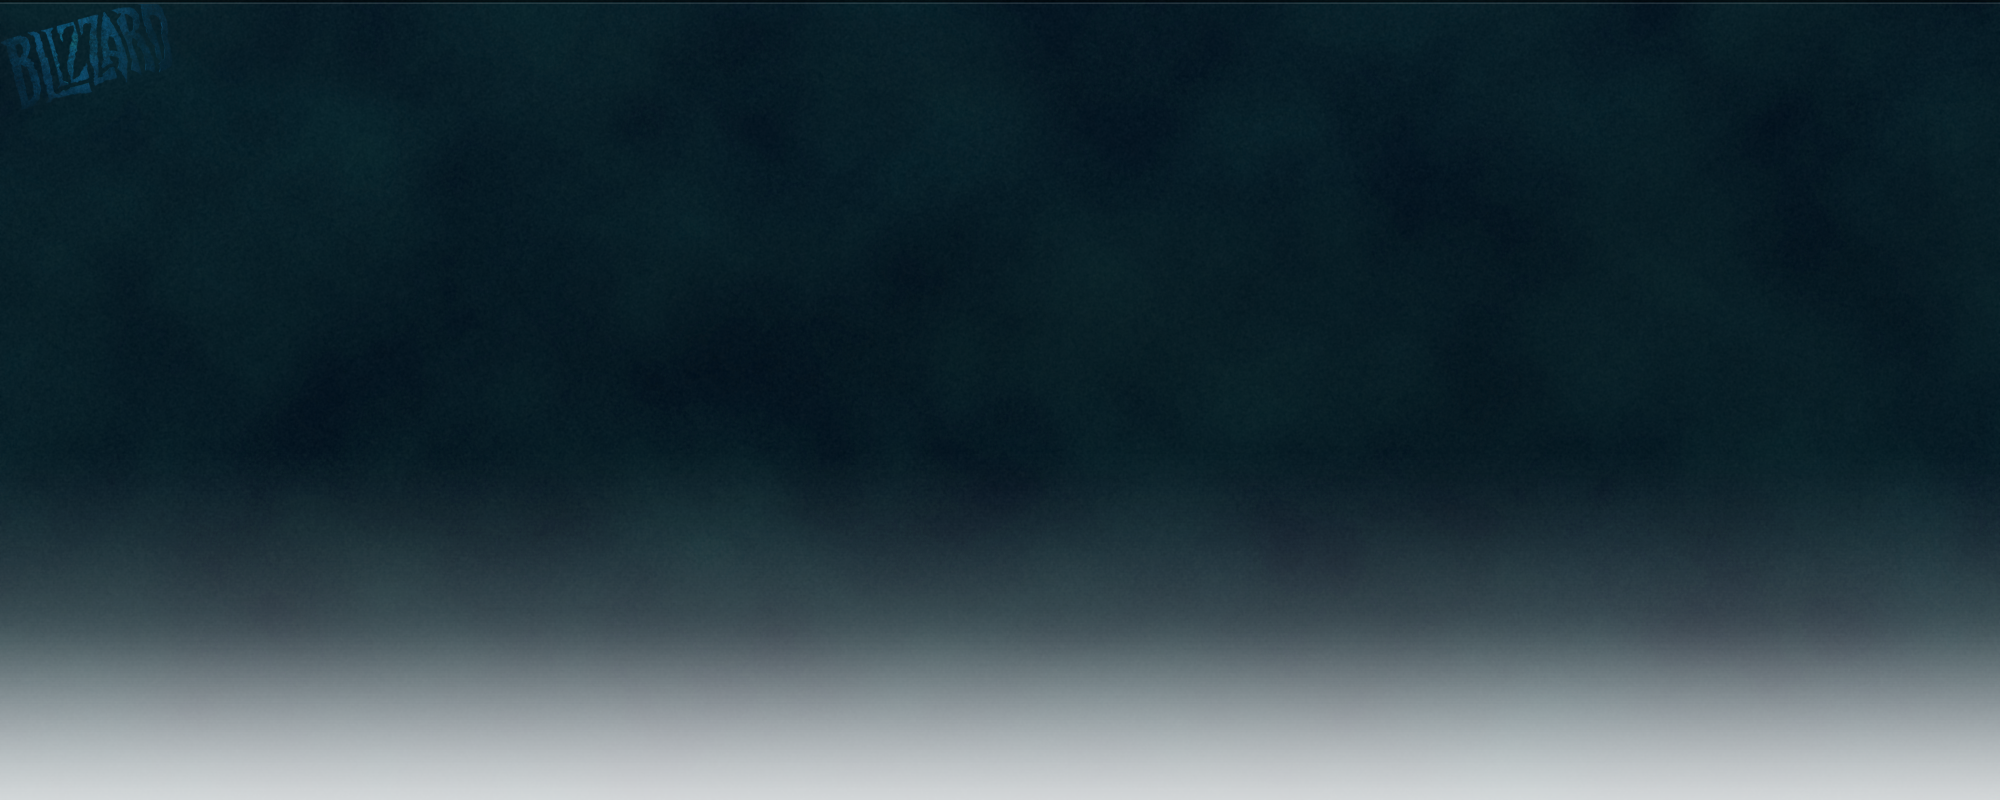
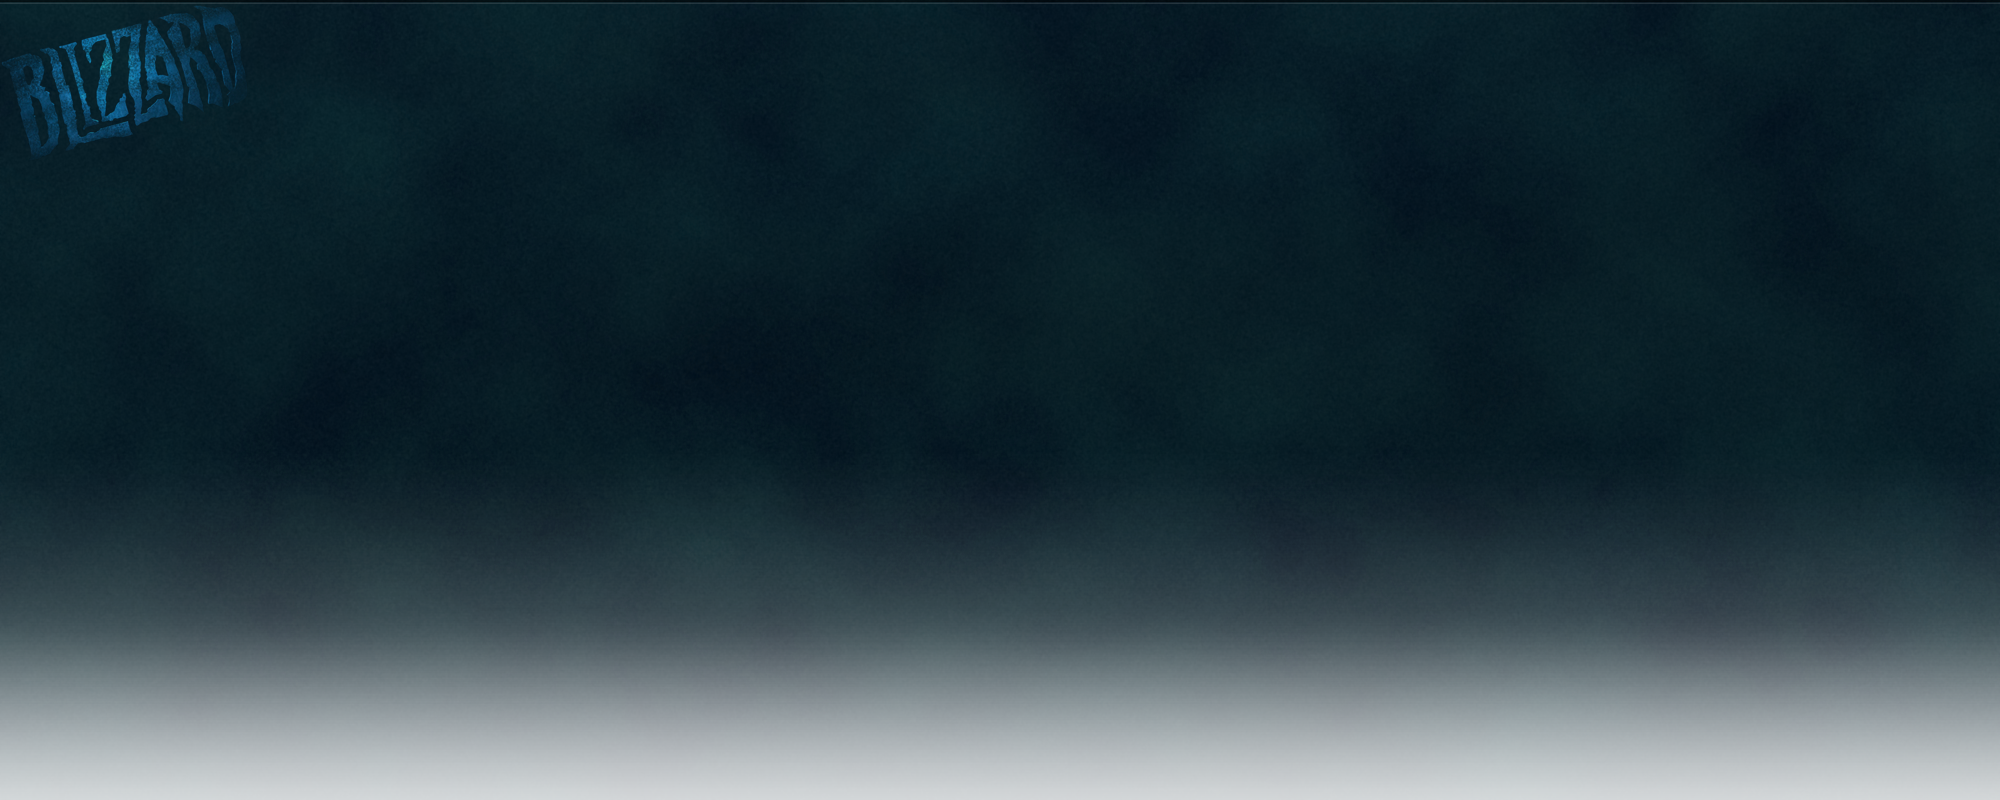
Updated bluzblizz again.

Changed region(s): [[0.0, 0.0, 0.124, 0.1875]]

diff --git a/css/threads.css b/css/threads.css
@@ -8,7 +8,7 @@
 
 #siteTable .thing {
   background-color: #0f0f0f; /*#27160e;*/
-  background: url('../images/thing-bg-test.png') repeat-x #1A0F09;
+  background: url('../images/thing-bg-new-test2.png') repeat-x #1A0F09;
   border: 1px solid #000;
   padding: 15px 0 10px;
   margin: 0 460px 0 30px;
@@ -102,7 +102,7 @@ a[href*='#blizzpost']~em {
 /* Reported and Spam Posts */
 
 #siteTable .thing.reported, #siteTable .thing.spam {
-  background: url('../images/thing-bg-reported.png') repeat-x;
+  background: url('../images/thing-bg-new-test2-reportred.png') repeat-x;
 }
 
 .entry .buttons li.trial-stamp, .entry .buttons li.reported-stamp {

diff --git a/css/linkflair.css b/css/linkflair.css
@@ -50,7 +50,7 @@ a.thumbnail.default, a.thumbnail.self {
 
 /* Special Blizzard Employee posts */
 .linkflair-blizzard {
-  background: url('../images/thing-bg-blizz.png') repeat-x #0A0E1C !important;
+  background: url('../images/thing-bg-new-test2-blizzblue.png') repeat-x #0A0E1C !important;
   color: #00B4FF !important;
 }
 
